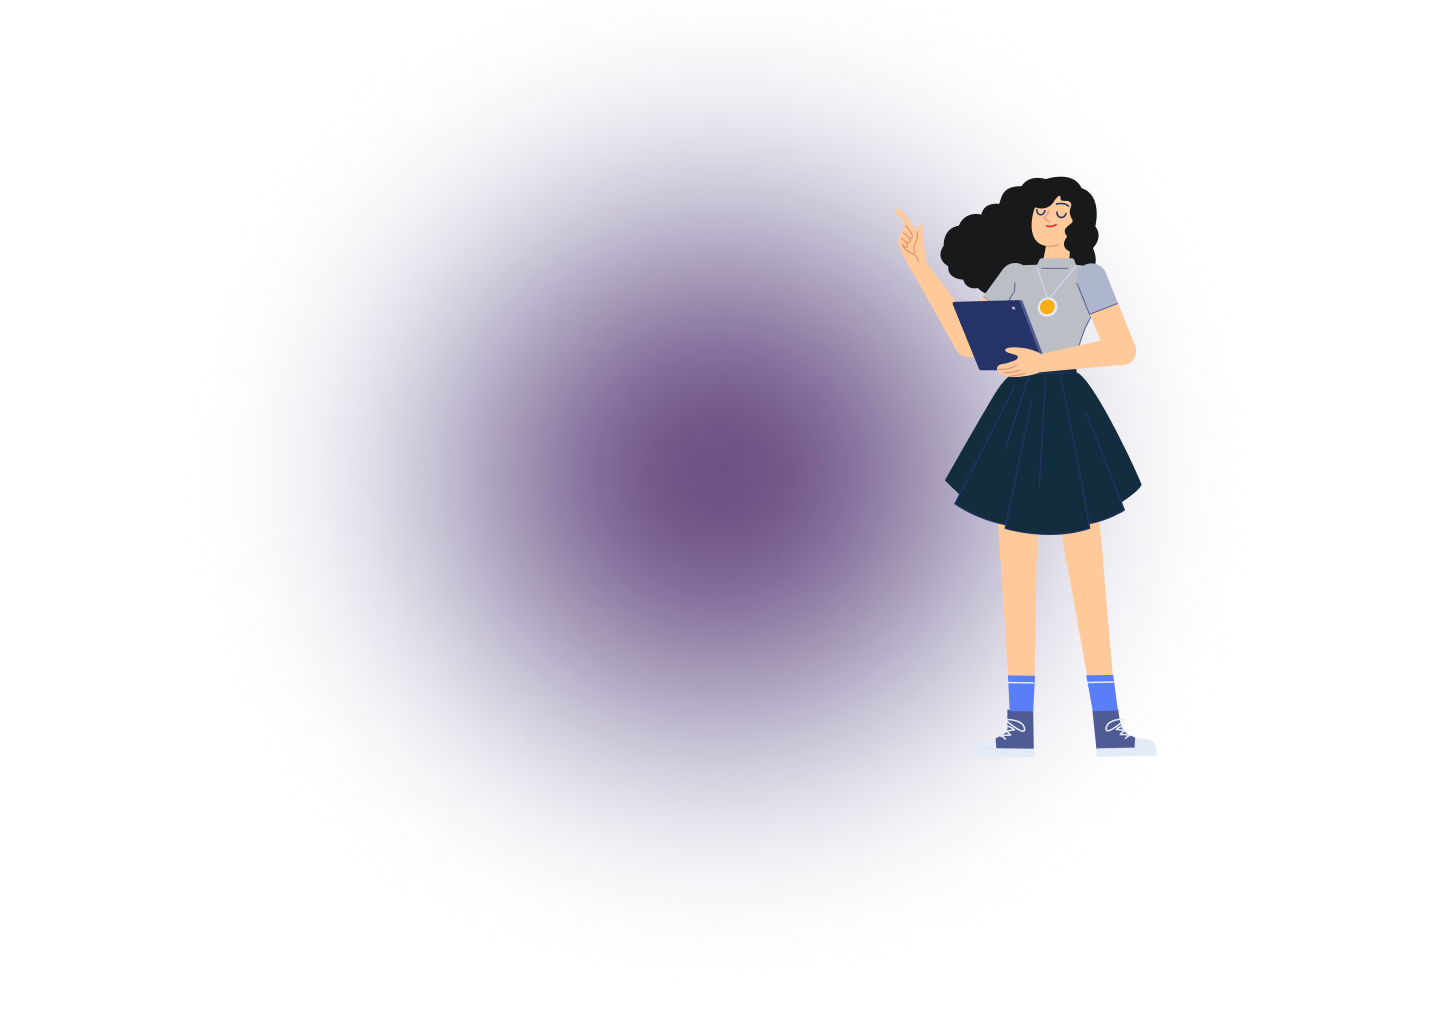
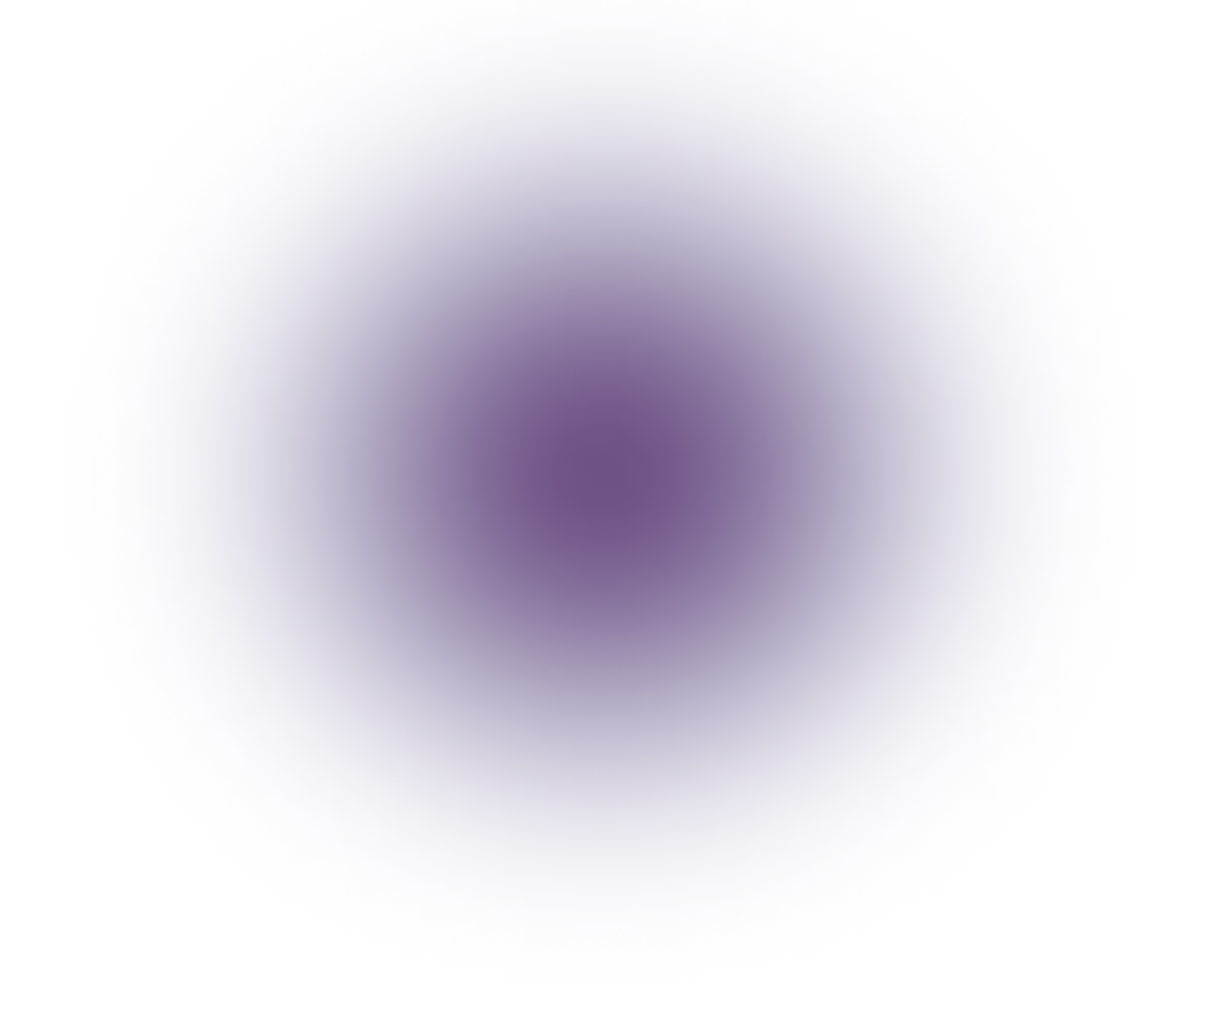
about section changed

Changed region(s): [[0.6131, 0.1562, 0.797, 0.75], [0.2452, 0.4062, 0.3065, 0.5312]]

diff --git a/index.html b/index.html
@@ -132,10 +132,12 @@
 
       </div>
 
-
+      <img src="img/g1.png" class="ig" alt="">
 
     </div>
+
     <img src="img/bg image 3.png" alt="">
+    
   </div>
 
 
@@ -154,7 +156,7 @@
           <div class="layer">
             <h5>Mockups and Prototypes</h5>
 
-            <a href="ux.html"><i class="fa-solid fa-arrow-up-right-from-square"></i></a>
+            <a href="" data-toggle="modal" data-target="#exampleModal"><i class="fa-solid fa-arrow-up-right-from-square"></i></a>
           </div>
         </div>
 
@@ -177,6 +179,26 @@
           </div>
         </div>
 
+      </div>
+
+     <!-----------------------------------------modals------------------------------------------>
+
+      <div class="modal fade" id="exampleModal" tabindex="-1" role="dialog" aria-labelledby="exampleModalLabel" aria-hidden="true">
+        <div class="modal-dialog" role="document">
+          <div class="modal-content">
+            <div class="modal-header">
+              <h5 class="modal-title" id="exampleModalLabel">Glimpse of work</h5>
+              <button type="button" class="close" data-dismiss="modal" aria-label="Close">
+                <span aria-hidden="true">&times;</span>
+              </button>
+            </div>
+            <div class="modal-body">
+             
+
+            </div>
+           
+          </div>
+        </div>
       </div>
 
     </div>
@@ -319,13 +341,13 @@
       <div class="container">
         <h1 class="sub-title">EXPLORE</h1>
 
-        <div class="explore">
-          <div class="map">
+        <div class="explore row">
+          <div class="map col-md-6">
             <a href="travel.html">
             <img src="img/Map.gif" alt="">
             </a>
           </div>
-          <div class="mapinfo"><p class="about_text">I like traveling and exploring cities through my camera.</p>
+          <div class="mapinfo col-md-6"><p class="about_text">I like traveling and exploring cities through my camera.</p>
           </div>
         </div>
 

diff --git a/css/main.css b/css/main.css
@@ -556,8 +556,14 @@ a:hover {
 
 #about {
   background: url("../img/Aboutbig.png");
-  margin-top: 20px;
+
   width: 100%;
+
+ 
+
+    background-size: cover;
+    background-position: center center;
+    background-repeat: no-repeat;
 }
 
 .about-col-2 {
@@ -578,6 +584,15 @@ a:hover {
 
 }
 
+.ig {
+  position: absolute;
+width: 530px;
+height: 931px;
+left: 996px;
+top: 600px;
+
+transform: matrix(-1, 0, 0, 1, 0, 0);
+}
 
 
 .sub-title {
